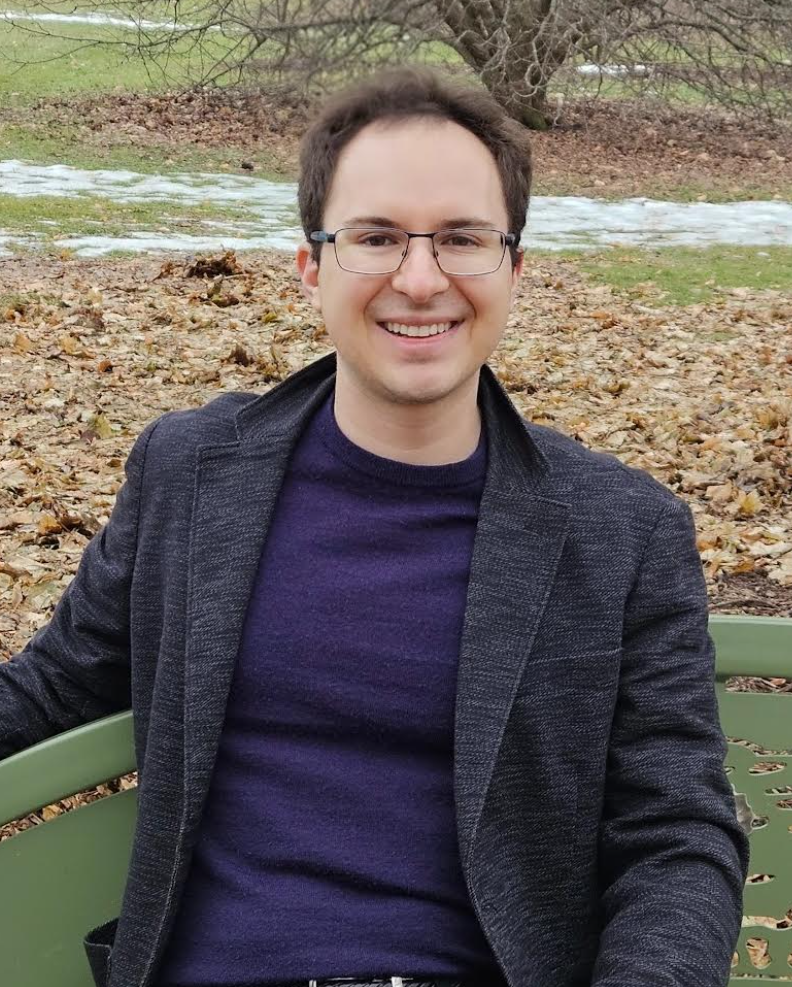
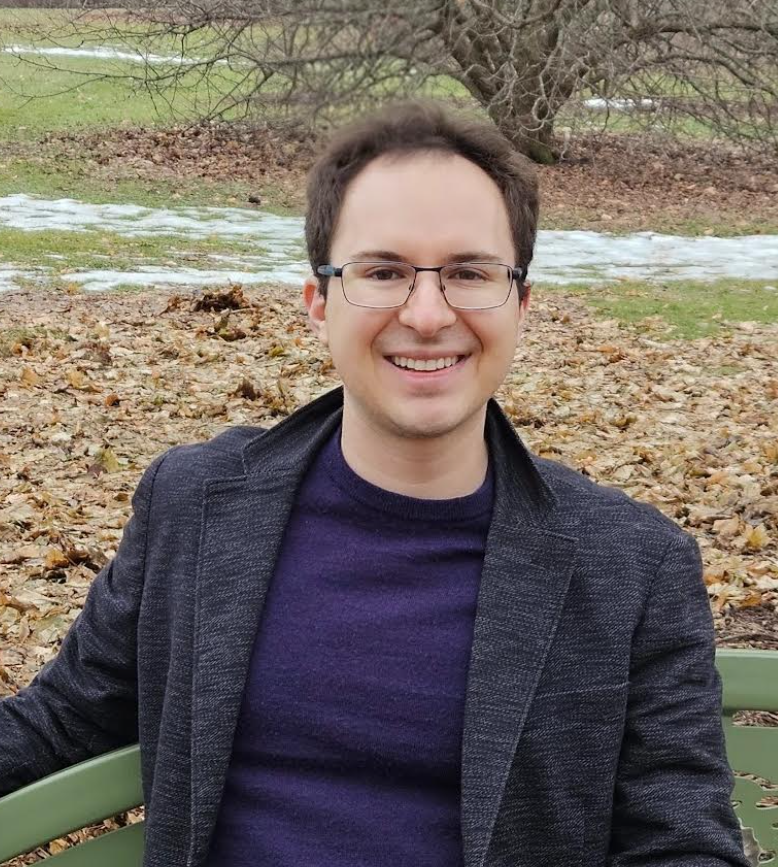
fixing picture

diff --git a/index.html b/index.html
@@ -32,7 +32,7 @@
 						<div class="content">
 							<div class="inner">
 								<h1>William Kwako</h1>
-								<img src="images/Kwako_headshot.png" style="width:280px; height:280px; object-fit: cover;">
+								<img src="images/Kwako_headshot.png" style="width:35%; object-fit: cover;">
 								<p>I like puzzles and things</p>
 							</div>
 						</div>